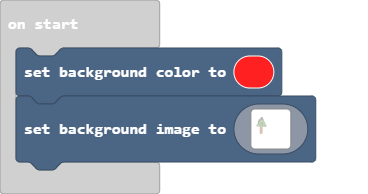
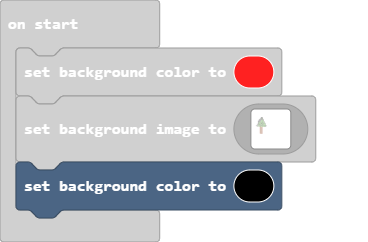
changed background

diff --git a/main.ts b/main.ts
@@ -121,3 +121,4 @@ scene.setBackgroundImage(img`
     ................................................................................................................................................................
     ................................................................................................................................................................
     `)
+scene.setBackgroundColor(15)
